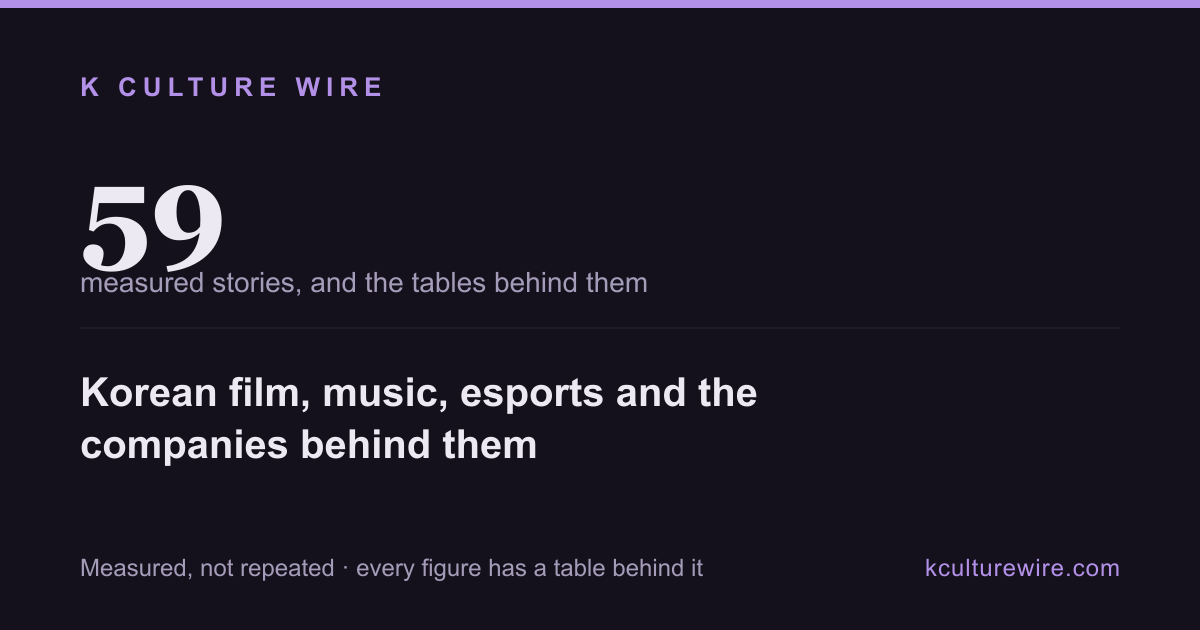
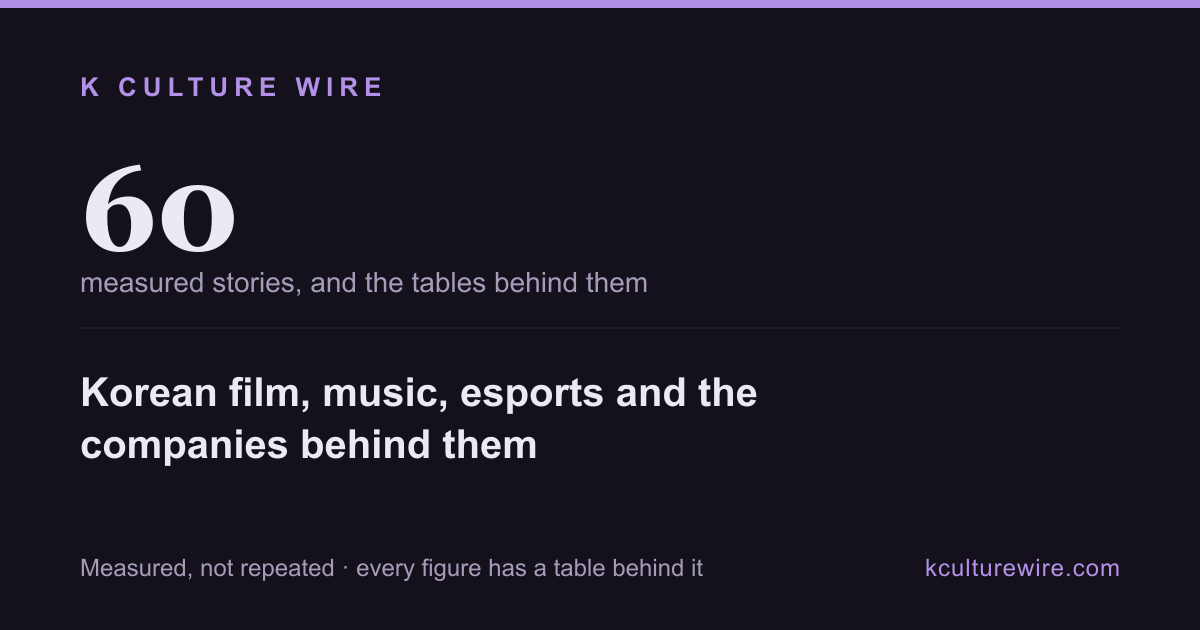
기사 60편째 — 우리가 제일 많이 내는 수의 16.1% 는 확인한 것이 아니었다 (industry)
우리 대표 수는 7.7%(37,750/492,900)다. 이번 주에 처음으로 **얼마나 확인했는지**를 물었다.

  넷플릭스 Non-English 딱지로 확인된 것   31,143 = 82.5%
  딱지가 아예 없어 못 걸러서 남긴 것        6,078 = **16.1%**
  딱지가 both(이름이 같은 두 작품)          529 =  1.4%

⛔ 우리는 이걸 **작품 수로만** 적어 왔다 — 「딱지 없는 작품 197편」. 참말이지만 **틀린 단위**다.
   197편은 반올림 오차처럼 들리고 16.1% 는 안 그렇다. 쓰는 쪽이 알아야 할 것은 뒤쪽이다.

## 두 번째 축을 같이 냈다 — 서로를 안 덮는다
딱지는 「영어 작품이 아닌가」를, 열쇠(위키데이터 Q번호)는 「이 작품이 무엇인가」를 본다.
열쇠로 보면 **99.0%** 가 확인되고 **379자리(1.0%)** 만 이름만으로 들어왔다.
⛔ 둘 중 나은 쪽만 내지 않았다.

## ⛔ 안 한 것
6,078자리를 **안 뺐다.** 빼면 한 줄이면 되고 수는 조금 작아지지만
**작아질 뿐 더 참이 되지는 않는다** — 그 작품들이 틀린 게 아니라 확인이 안 된 것이다.
7.7% 를 **계속 낸다.** 신뢰도를 밝힌 수가 안 밝힌 수보다 낫다.

## 어디서 왔나
옆자리(8번)가 자기 자에서 조용히 **버리는** 것을 세고, 이어서 조용히 **들이는** 쪽을 봤다.
나는 아침에 버리는 쪽만 세고 멈췄다. **관은 침묵이 둘인데 대개 하나만 본다.**

검사 63 → 64개 · npm test EXIT 0 · 기사 61편

Claude-Session: https://claude.ai/code/session_01Qvka5BPUzzygCnaaEzGFRS

Changed region(s): [[0.0617, 0.2413, 0.2158, 0.4524]]

diff --git a/content/kculturewire/how-much-of-our-own-number-is-checked.md b/content/kculturewire/how-much-of-our-own-number-is-checked.md
@@ -1,0 +1,109 @@
+---
+title: "We publish one figure more than any other. A sixth of it rests on titles we could not check."
+dek: "Korean titles hold 7.7% of the world's Netflix top 10 places — 37,750 of 492,900. Of those, 82.5% carry the label we use to exclude same-name foreign works. 16.1% carry no label at all, and we keep them because we cannot check them."
+category: industry
+pubDate: 2026-08-09
+dataAsOf: 2026-07-26T00:00:00+09:00
+author: Newsroom
+tags: ["korea", "netflix", "method", "measurement", "corrections"]
+pages:
+  - "/world-share"
+sources:
+  - org: "Netflix"
+    api: "Tudum weekly Top 10 country lists, 2021-07-04 to 2026-07-26, and the global lists that carry the English / Non-English label"
+    url: "https://www.netflix.com/tudum/top10"
+  - org: "Wikidata"
+    api: "Country of origin (P495 = Q884), and item numbers matched by number rather than by name"
+    url: "https://query.wikidata.org"
+crossChecks:
+  - "The share is counted in chart places rather than in titles, because a title count makes the unchecked group look smaller than the weight it carries"
+  - "Two independent checks are reported separately — Netflix's language label and a Wikidata item number — because neither is a superset of the other"
+  - "The confirmation counts are summed over exactly the 93 complete markets the headline figure uses, and the collector refuses to write if the three groups do not add to the total"
+excluded:
+  - "Any adjustment to the headline figure. We did not remove the unchecked places to make the number cleaner; removing them would make it smaller and no more true"
+  - "Russia, which Netflix withdrew from, as on every page of this site"
+---
+
+The number we publish most often is **7.7%** — the share of the world's Netflix top-10 places held by
+Korean titles, 37,750 of 492,900 across 93 markets and five years. It is on our front page, in our
+articles, and in the sheets we offer to companies.
+
+This week we finally asked how much of it we have actually checked.
+
+## The rule, and the hole in it
+
+A title enters our Korean count because its name matches a Korean work in Wikidata. That rule can
+fail in exactly one direction: another country made something with the same name.
+
+The guard against it is Netflix's own label. Netflix classes its global charts as English and
+Non-English, so a title that shows up on the English global chart is not the Korean work of that
+name, and we drop it. That guard works — it is how *Suits* and *The Perfect Couple* left our
+catalogue in an earlier correction.
+
+But the label exists **only on the global charts**. A title that never reached a global top 10 has
+nothing to check against. We keep it, because dropping titles for lacking a label we cannot obtain
+would quietly delete real Korean shows.
+
+Keeping is not the same as confirming. Here is the size of the difference:
+
+| Of the 37,750 Korean chart places | Places | Share |
+|---|---:|---:|
+| Carry Netflix's Non-English label — checked | 31,143 | **82.5%** |
+| No label at all — kept because we could not check | 6,078 | **16.1%** |
+| Label says both — the name is on an English chart too | 529 | 1.4% |
+
+## Why we had never published this
+
+We had. Sort of. Two of our pages have said for weeks that **197 titles** carry no language label,
+and that sentence is true.
+
+It is also the wrong unit. "197 titles" out of nine hundred sounds like a rounding error. **16.1% of
+the places behind our headline figure** does not. The same fact, counted the way the number is
+actually used, is roughly six times more alarming — and it is the version that matters if you are
+deciding whether to rely on the figure.
+
+We counted titles because titles were what the collector happened to have. That is not a reason.
+
+## A second check, which disagrees about which titles are the problem
+
+The language label asks whether a title is *not English*. It never asks *which work this is*. For
+that we hold a Wikidata item number, matched by number rather than by name — the fix we made in
+August after discovering that name matching is case-sensitive and was silently dropping Korean films
+filed as *LAND* and *DETOUR*.
+
+By that measure the picture is much better: **99.0%** of the places sit on titles with an item
+number. Only **379 places — 1.0%** entered on a name match alone.
+
+Neither check is a superset of the other. A title can carry a Wikidata number and still have no
+language label; the reverse happens too. So we publish both rather than the flattering one.
+
+## What we did not do
+
+We did not remove the 6,078 unchecked places to make the number cleaner. It would have taken one
+line, the headline would have moved from 7.7% to something slightly lower, and it would have been
+**smaller without being truer** — those titles are not known to be wrong, only unverified.
+
+We also did not stop publishing 7.7%. A figure with a stated confidence is more useful than no
+figure, and considerably more useful than a figure whose confidence is not stated.
+
+## How this came up
+
+It came from another desk. A colleague auditing a different dataset had been counting the rows their
+tool silently *dropped*, found none, and then went looking in the opposite direction — for rows it
+silently *let in*. They found 369 withdrawn workplaces being counted as active.
+
+We had done the same audit that morning and stopped at the same halfway point: we had counted what
+our collectors throw away, confirmed it was nothing, and never asked what they wave through.
+
+**A pipeline has two silences and most people only ever check one.**
+
+## What this means for the figure
+
+7.7% stands. What changes is the sentence around it: of the places it counts, 82.5% are confirmed
+not to be English-language works of the same name, 1.4% are known to be ambiguous, and 16.1% are
+unverified in that specific way. On the other axis, 99.0% are identified by a database number rather
+than by their name.
+
+If you use our figure, that is the disclosure you should have had from the start. It is on
+**[the world share page](/world-share)** now, in the same table as the number itself, which is where
+it should have been.
